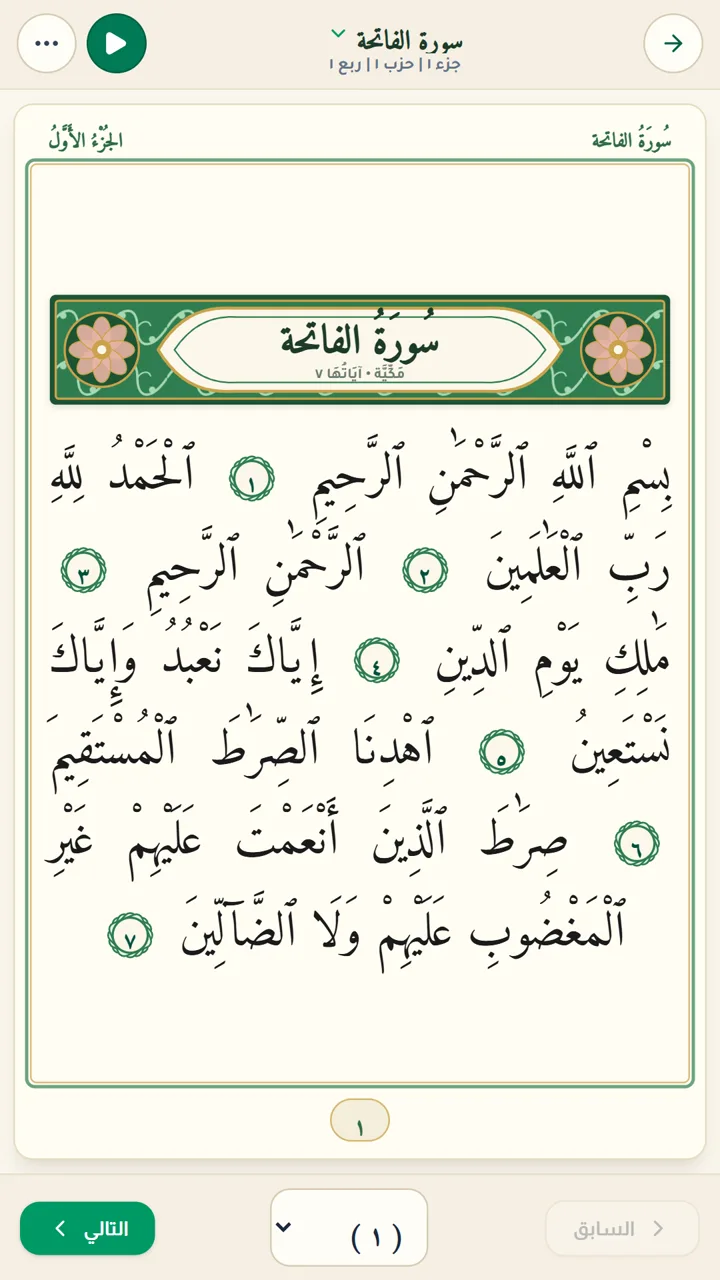
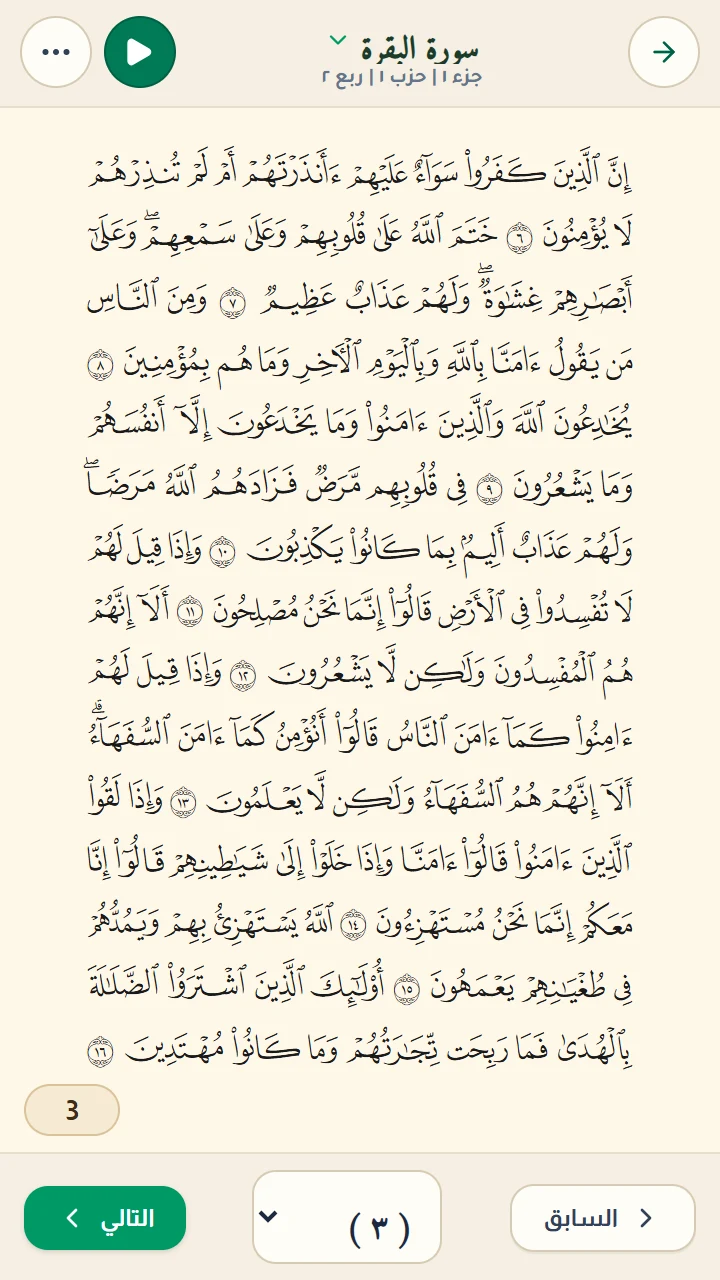
Show the current Madinah mushaf in the site screenshots
Replaces the old mushaf and reciter screenshots with captures of the
current app (Madinah page layout) and adds selected-ayah tools, Tafsir
al-Muyassar, ayah sharing and night-mode mushaf to the gallery and the
Quran section.

diff --git a/index.html b/index.html
@@ -375,7 +375,11 @@
     </div>
     <div class="gallery" id="gallery" tabindex="0" aria-label="لقطات من التطبيق">
       <figure class="shot"><div class="phone"><img loading="lazy" src="screens/home_prayer_times.webp" alt="الشاشة الرئيسية ومواقيت الصلاة"></div><figcaption>الرئيسية<small>مواقيت الصلاة والعدّ التنازلي</small></figcaption></figure>
-      <figure class="shot"><div class="phone"><img loading="lazy" src="screens/quran_mushaf.webp" alt="المصحف الشريف"></div><figcaption>المصحف الشريف<small>خط عثماني واضح</small></figcaption></figure>
+      <figure class="shot"><div class="phone"><img loading="lazy" src="screens/quran_mushaf.webp" alt="مصحف المدينة"></div><figcaption>مصحف المدينة<small>604 صفحات كالمصحف المطبوع</small></figcaption></figure>
+      <figure class="shot"><div class="phone"><img loading="lazy" src="screens/quran_ayah_actions.webp" alt="أدوات الآية"></div><figcaption>اضغط على الآية<small>استماع وتكرار وتفسير وقراءات</small></figcaption></figure>
+      <figure class="shot"><div class="phone"><img loading="lazy" src="screens/quran_tafseer.webp" alt="التفسير الميسر"></div><figcaption>التفسير الميسر<small>معنى كل آية بأسلوب سهل</small></figcaption></figure>
+      <figure class="shot"><div class="phone"><img loading="lazy" src="screens/quran_share.webp" alt="مشاركة الآية"></div><figcaption>شارك الآية<small>بصوت القارئ على واتساب وفيسبوك</small></figcaption></figure>
+      <figure class="shot"><div class="phone"><img loading="lazy" src="screens/quran_night.webp" alt="المصحف ليلاً"></div><figcaption>المصحف ليلاً<small>قراءة مريحة في الظلام</small></figcaption></figure>
       <figure class="shot"><div class="phone"><img loading="lazy" src="screens/quran_reciters.webp" alt="اختيار القارئ"></div><figcaption>أشهر القرّاء<small>33 تلاوة بروايات متعددة</small></figcaption></figure>
       <figure class="shot"><div class="phone"><img loading="lazy" src="screens/azkar_tracker.webp" alt="الأذكار والأوراد"></div><figcaption>الأذكار والأوراد<small>تابع وردك اليومي</small></figcaption></figure>
       <figure class="shot"><div class="phone"><img loading="lazy" src="screens/digital_tasbeeh.webp" alt="السبحة الإلكترونية"></div><figcaption>السبحة الإلكترونية<small>بالصوت والاهتزاز</small></figcaption></figure>
@@ -395,17 +399,19 @@
       <div class="spot reveal">
         <div class="spot-text">
           <span class="num">١ ✦</span>
-          <h3>المصحف الشريف بأصوات أشهر القرّاء</h3>
-          <p>اقرأ واستمع وكرّر، واختر من بين 33 تلاوة لكبار القرّاء: العفاسي، المنشاوي، عبد الباسط، السديس، الشريم وغيرهم.</p>
+          <h3>مصحف المدينة بأصوات أشهر القرّاء</h3>
+          <p>صفحات مصحف المدينة كما في المطبوع، تلمس الآية فتستمع إليها وتكرّرها وتقرأ تفسيرها، واختر من بين 33 تلاوة لكبار القرّاء: العفاسي، المنشاوي، عبد الباسط، السديس، الشريم وغيرهم.</p>
           <ul class="checks">
             <li><svg viewBox="0 0 24 24" fill="none" stroke="currentColor" stroke-width="3" stroke-linecap="round" stroke-linejoin="round"><path d="M20 6 9 17l-5-5"/></svg>رواية حفص وقراءات وروايات أخرى</li>
             <li><svg viewBox="0 0 24 24" fill="none" stroke="currentColor" stroke-width="3" stroke-linecap="round" stroke-linejoin="round"><path d="M20 6 9 17l-5-5"/></svg>المصحف المعلّم للأطفال والترديد</li>
             <li><svg viewBox="0 0 24 24" fill="none" stroke="currentColor" stroke-width="3" stroke-linecap="round" stroke-linejoin="round"><path d="M20 6 9 17l-5-5"/></svg>متابعة الختمة والورد اليومي</li>
+            <li><svg viewBox="0 0 24 24" fill="none" stroke="currentColor" stroke-width="3" stroke-linecap="round" stroke-linejoin="round"><path d="M20 6 9 17l-5-5"/></svg>التفسير الميسر ومعاني الكلمات لكل آية</li>
+            <li><svg viewBox="0 0 24 24" fill="none" stroke="currentColor" stroke-width="3" stroke-linecap="round" stroke-linejoin="round"><path d="M20 6 9 17l-5-5"/></svg>شارك الآية وتفسيرها بصوت القارئ</li>
           </ul>
         </div>
         <div class="spot-visual">
-          <div class="phone"><img loading="lazy" src="screens/quran_mushaf.webp" alt="المصحف"></div>
-          <div class="phone"><img loading="lazy" src="screens/quran_reciters.webp" alt="القرّاء"></div>
+          <div class="phone"><img loading="lazy" src="screens/quran_mushaf.webp" alt="مصحف المدينة"></div>
+          <div class="phone"><img loading="lazy" src="screens/quran_tafseer.webp" alt="التفسير الميسر"></div>
         </div>
       </div>
 
